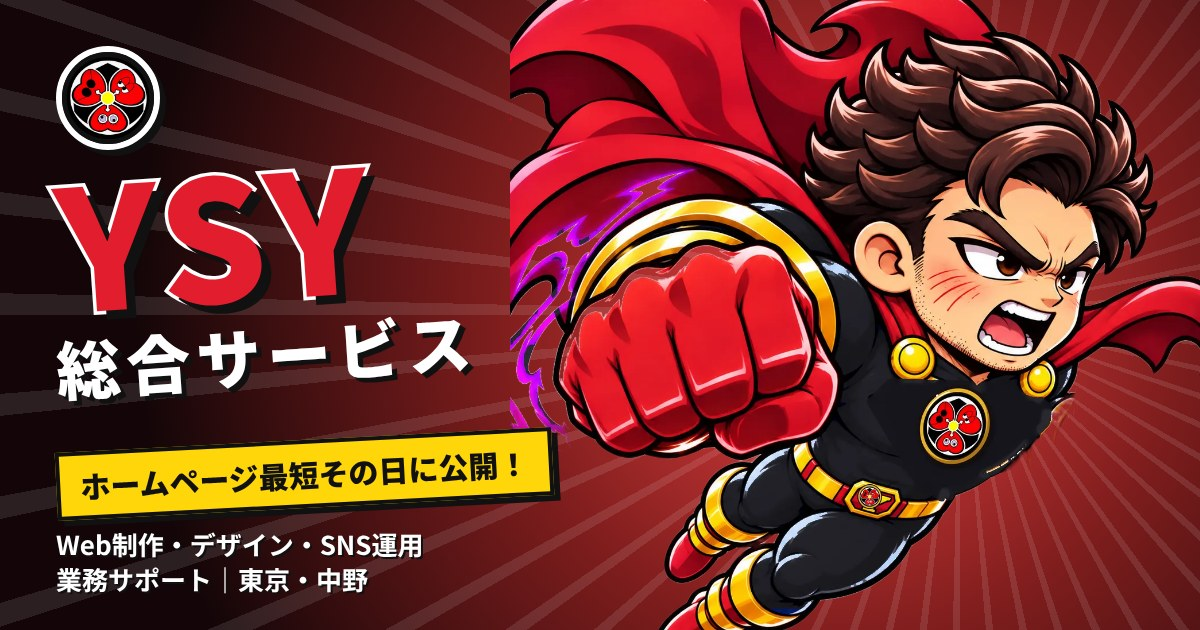
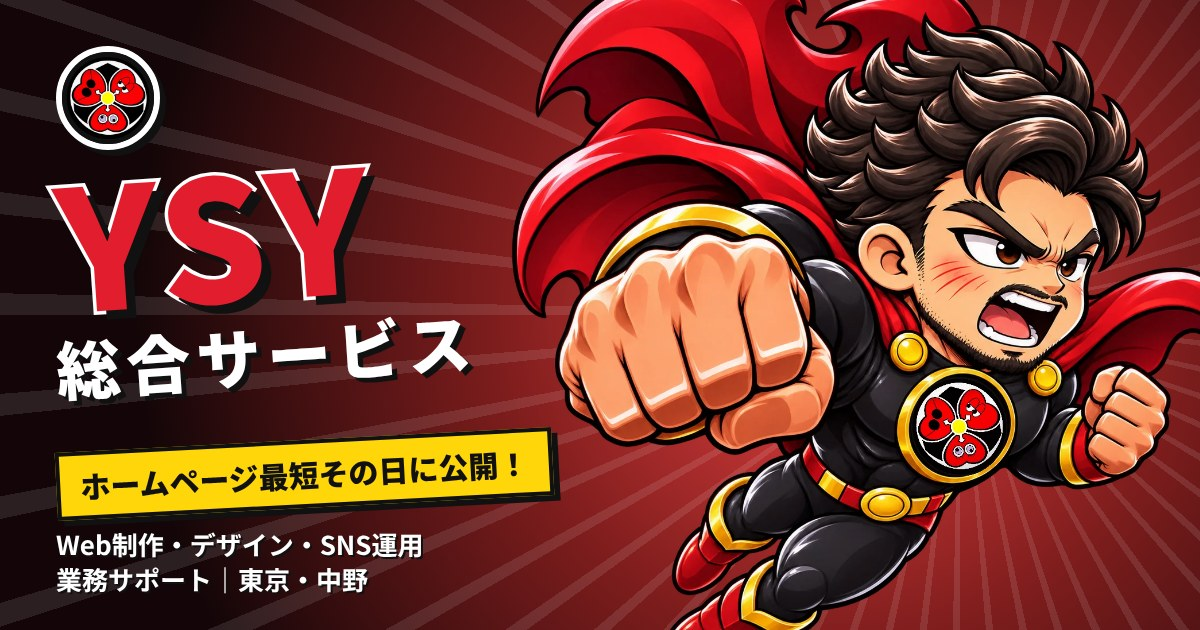
オープニングの登場・パンチ・ビームを新しい絵に差し替え、胸に正式ロゴ
Claude-Session: https://claude.ai/code/session_01P13hFbXEhDS5pok4XEjrJv

diff --git a/en/index.html b/en/index.html
@@ -1724,7 +1724,7 @@ footer .wrap{display:flex;justify-content:space-between;flex-wrap:wrap;gap:10px}
       if(t>11.5&&t<12.45){ const k=(t-11.5)/.95; for(let i=0;i<3;i++){ const a=rnd(0,Math.PI*2), R=rnd(120,260); const tx2=W*.27, ty=H*.35; P.push({x:tx2+Math.cos(a)*R,y:ty+Math.sin(a)*R,vx:-Math.cos(a)*R*2.2,vy:-Math.sin(a)*R*2.2,life:0,max:.45,s:2,c:i%2?'#f87171':'#e9d5ff',k:'dot',g:0,dr:1}); } }
       /* 6: beam duel */
       if(t>12.4&&t<16.25){
-        const E=cover('scBeam',.30,.383), Pm=cover('scBeam',.686,.455), C0=cover('scBeam',.462,.439);
+        const E=cover('scBeam',.305,.378), Pm=cover('scBeam',.60,.50), C0=cover('scBeam',.478,.447);
         const ph=t-12.4, push=t>15.05?Math.min(1,(t-15.05)/1.0):0;
         const wob=Math.sin(ph*7)*.06+Math.sin(ph*17)*.02;
         let ox=C0[0]+(Pm[0]-E[0])*(wob+push*.55), oy=C0[1]+(Pm[1]-E[1])*(wob+push*.55);

diff --git a/index.html b/index.html
@@ -1724,7 +1724,7 @@ footer .wrap{display:flex;justify-content:space-between;flex-wrap:wrap;gap:10px}
       if(t>11.5&&t<12.45){ const k=(t-11.5)/.95; for(let i=0;i<3;i++){ const a=rnd(0,Math.PI*2), R=rnd(120,260); const tx2=W*.27, ty=H*.35; P.push({x:tx2+Math.cos(a)*R,y:ty+Math.sin(a)*R,vx:-Math.cos(a)*R*2.2,vy:-Math.sin(a)*R*2.2,life:0,max:.45,s:2,c:i%2?'#f87171':'#e9d5ff',k:'dot',g:0,dr:1}); } }
       /* 6: beam duel */
       if(t>12.4&&t<16.25){
-        const E=cover('scBeam',.30,.383), Pm=cover('scBeam',.686,.455), C0=cover('scBeam',.462,.439);
+        const E=cover('scBeam',.305,.378), Pm=cover('scBeam',.60,.50), C0=cover('scBeam',.478,.447);
         const ph=t-12.4, push=t>15.05?Math.min(1,(t-15.05)/1.0):0;
         const wob=Math.sin(ph*7)*.06+Math.sin(ph*17)*.02;
         let ox=C0[0]+(Pm[0]-E[0])*(wob+push*.55), oy=C0[1]+(Pm[1]-E[1])*(wob+push*.55);

diff --git a/th/index.html b/th/index.html
@@ -1724,7 +1724,7 @@ footer .wrap{display:flex;justify-content:space-between;flex-wrap:wrap;gap:10px}
       if(t>11.5&&t<12.45){ const k=(t-11.5)/.95; for(let i=0;i<3;i++){ const a=rnd(0,Math.PI*2), R=rnd(120,260); const tx2=W*.27, ty=H*.35; P.push({x:tx2+Math.cos(a)*R,y:ty+Math.sin(a)*R,vx:-Math.cos(a)*R*2.2,vy:-Math.sin(a)*R*2.2,life:0,max:.45,s:2,c:i%2?'#f87171':'#e9d5ff',k:'dot',g:0,dr:1}); } }
       /* 6: beam duel */
       if(t>12.4&&t<16.25){
-        const E=cover('scBeam',.30,.383), Pm=cover('scBeam',.686,.455), C0=cover('scBeam',.462,.439);
+        const E=cover('scBeam',.305,.378), Pm=cover('scBeam',.60,.50), C0=cover('scBeam',.478,.447);
         const ph=t-12.4, push=t>15.05?Math.min(1,(t-15.05)/1.0):0;
         const wob=Math.sin(ph*7)*.06+Math.sin(ph*17)*.02;
         let ox=C0[0]+(Pm[0]-E[0])*(wob+push*.55), oy=C0[1]+(Pm[1]-E[1])*(wob+push*.55);
